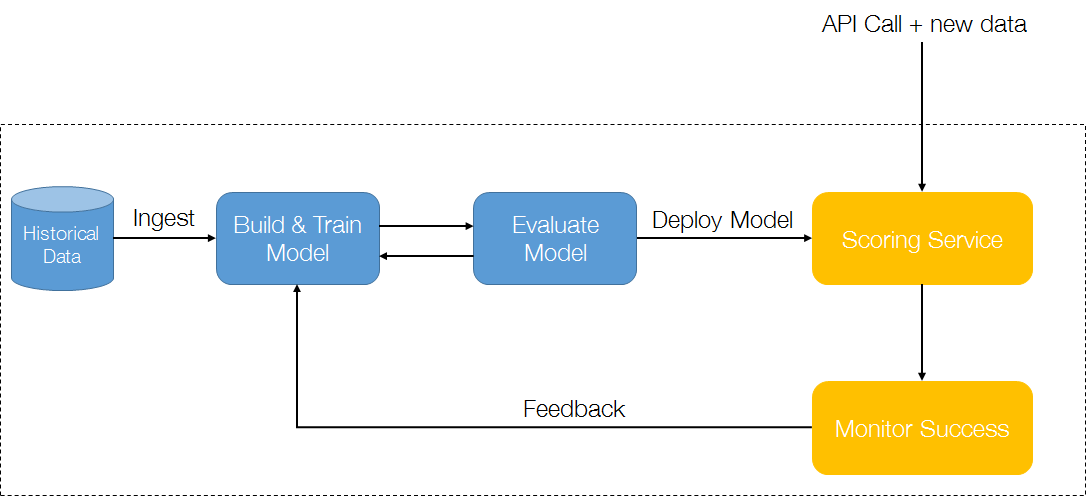
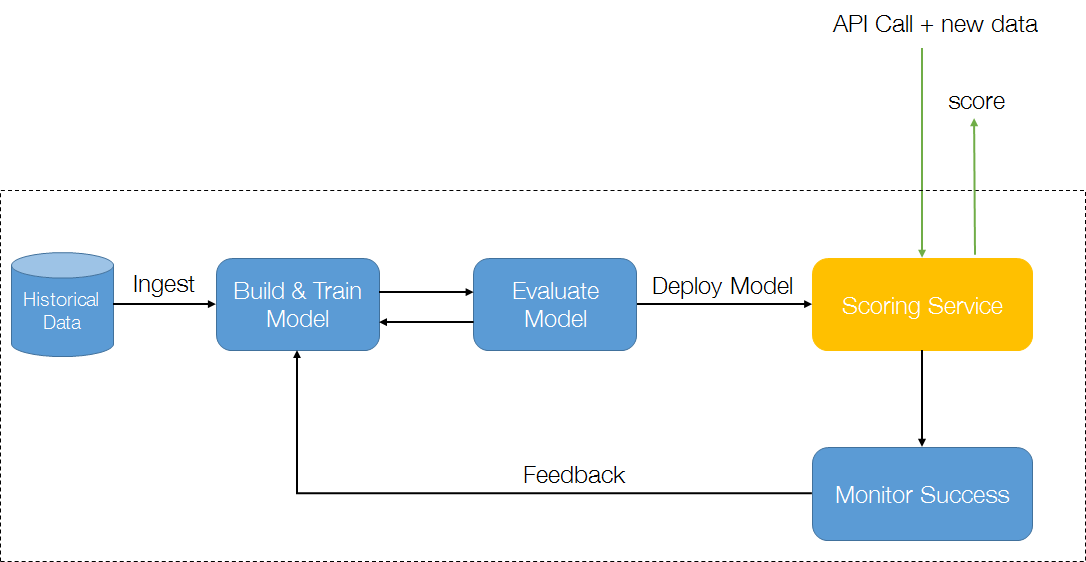
update doc

diff --git a/README.md b/README.md
@@ -35,21 +35,15 @@ for more information, go to the [IBM Machine Learning for z/OS Knowledge Center]
 
 # Financial risk management API in MPLbank
 
-The IBM MPLbank team made a Financial risk management API illustrating an online decision for loans approval based on Machine Learning for z/OS. The initial predictive model was designed to deliver a score representing the probability of the capacity of loan refund according to banking customer data. From a software Architecture point of view, the previous schema has been implemented in MPLbank on Mainframe.
+The IBM MPLbank team made a Financial risk management API illustrating an online decision for loans approval based on Machine Learning for z/OS. The initial predictive model was designed to deliver a score representing the probability of the capacity of loan refund for a banking customer according to his personal data. From a software Architecture point of view, IBM Machine Learning for z/OS has been set up in MPLbank on Mainframe. In Consequence, the previous schema has been implemented ans act as Financial Risk Management System.
 
 ![alt text](images/architecture_mlz_mplbank.png "Architecture")
 
-Following the next schema, the Predictive model was build from data using IBM Machine learning tools and banking customer data (his diploma, his age, his number of credit card, his income  and his number of car loans) was selected to predict the output score. Then it was trained with 80% of historical data and was evaluated with 20% of historical data. In this way, It ensures that the model is able to learn from fresh data.
+Following the next schema, the Predictive model was build from data using IBM Machine learning tools and banking customer data (his diploma, his age, his number of credit card, his income  and his number of car loans) was selected to predict an score (probability) and an action (next customer's behaviour). Then it was trained with 80% of historical data and was evaluated with 20% of historical data. In this way, It ensures that the model is able to learn from fresh data.
 
 ![alt text](images/mlz_workflow.png "workflow")
 
 Once the model has been approved, it has been deployed in order to act as a scoring service. On top of this service, an API was created and published to the API developer Portal. In other words, this scoring service is callable trough API. This API is available in the banking product from the [IBM Developer Portal] under the API path **/customers/loan/** .
-
-As input parameters, the API expects : 
-* 
-
-As output value, 
-
 
 [IBM Bluemix]: https://www.ibm.com/us-en/marketplace/cloud-platform
 [IBM z Systems Mainframe]: https://www-03.ibm.com/systems/z/
